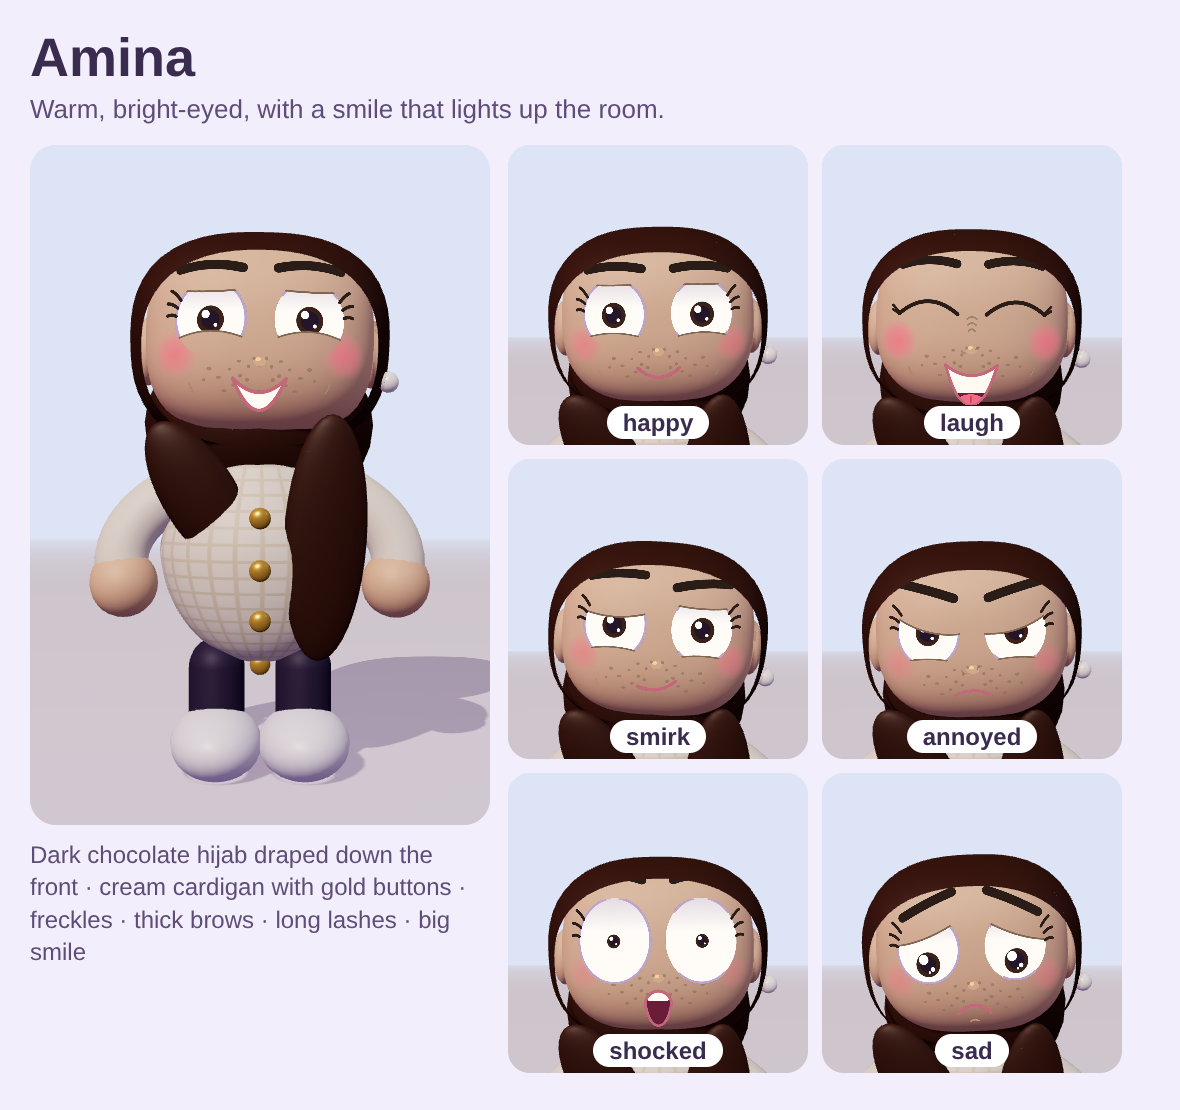
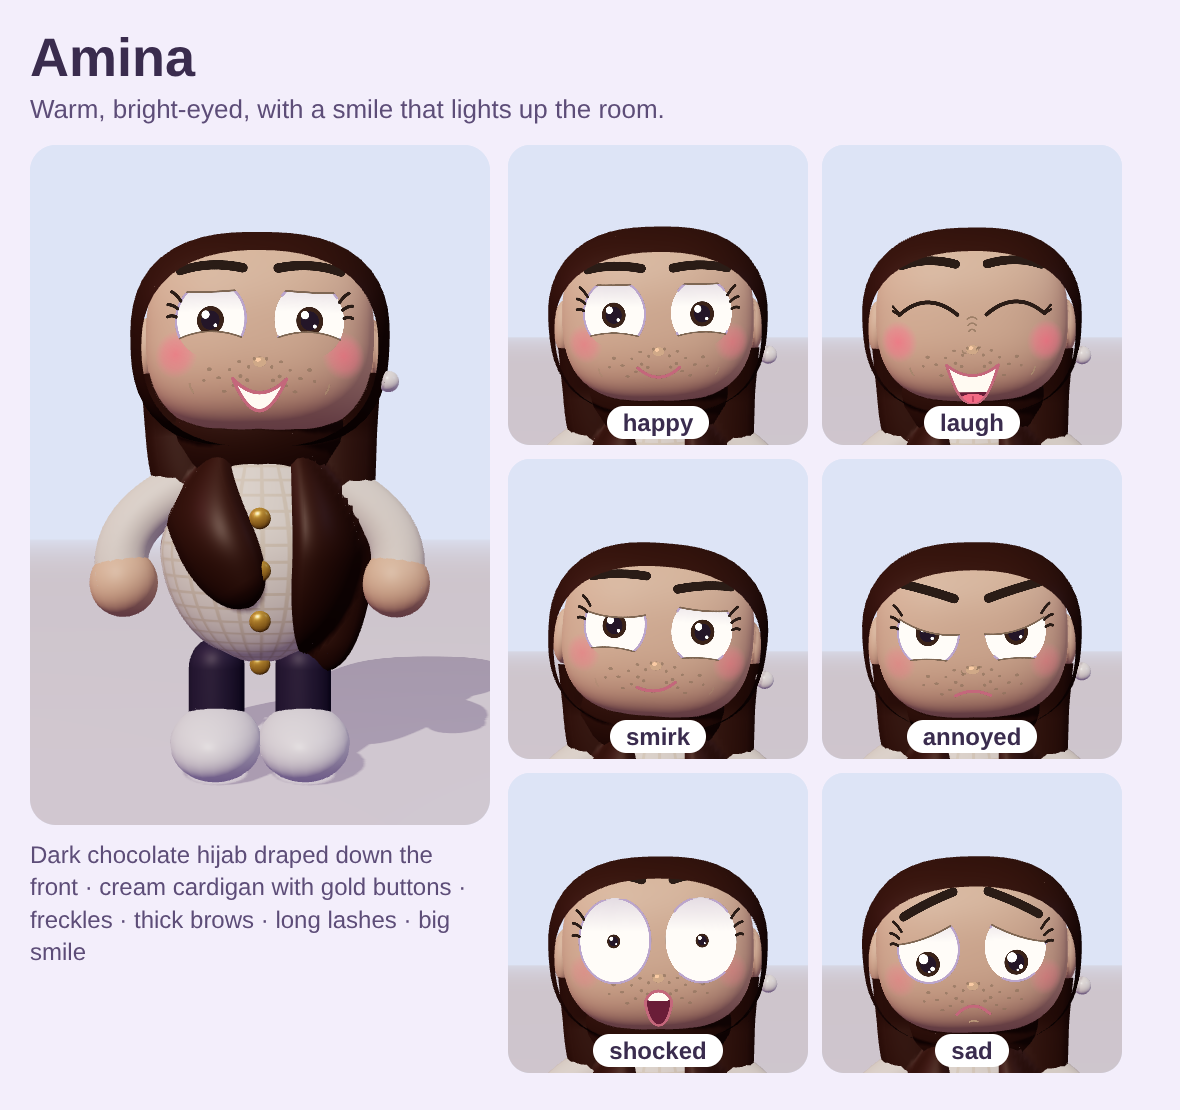
Amina's hijab: panels now flow from the head wrap down the front as one soft drape
Only the hijabDrape panels changed (smooth rounded ribbons that start inside the head wrap).
The head wrap and neck are untouched. Refreshed her preview picture.

Claude-Session: https://claude.ai/code/session_01Kz45xjeG9hM21H2JXSeFXF

diff --git a/characters/expressive/body.js b/characters/expressive/body.js
@@ -174,10 +174,29 @@ export function createExpressiveKit(THREE, RoundedBoxGeometry, kit) {
     else if (st === 'hijab') {
       const sh = new THREE.Mesh(blob(rx * 1.13, ry * 1.13, rz * 1.15, { thLen: 126 * D2R, n: HD.n }), hmat); sh.rotation.x = -(Math.PI / 2 - 0.26); sh.castShadow = true; head.add(sh);   // the opening faces the front
       const dr = ball(head, 1.2, hair, 0, -ry * 0.8, -0.45, { m: { roughness: 0.5 } }); dr.scale.set(1.25, 1.05, 0.95);
-      if (O.hijabDrape) {   // the scarf hangs down the front in two soft panels (one long, one folded across)
-        const soft = (w, h, x, y, rz, tiltX) => { const m = new THREE.Mesh(new THREE.SphereGeometry(1, 28, 20), hmat); m.scale.set(w, h, 0.17); m.position.set(x, y, eggZ(x, y, D) + 0.1); m.rotation.set(tiltX, 0, rz); m.castShadow = true; bodyG.add(m); return m; };
-        soft(0.5, 1.5, 0.78, topY - 1.5, -0.06, 0.12);      // the long panel down the front
-        soft(0.46, 1.05, -0.72, topY - 1.0, 0.55, 0.1);     // the folded panel across the chest
+      if (O.hijabDrape) {   // the scarf flows from the head wrap down the front in two soft panels (one long, one folded across). Each panel is a chain of soft overlapping pieces that starts INSIDE the head wrap, so there is no gap.
+        const dmat = hmat.clone(); dmat.side = THREE.DoubleSide;
+        const drape = (pts, w0, w1) => {   // pts: [x, y] top to bottom (the first point is up inside the head wrap). One smooth soft ribbon: rounded across, tapering, rounded at the end.
+          const R = 44, C = 16, at = u => {   // Catmull-Rom spline through the points: a smooth curve with no kinks
+            const f = u * (pts.length - 1), i = Math.min(pts.length - 2, Math.floor(f)), k = f - i, P = j => pts[Math.max(0, Math.min(pts.length - 1, j))];
+            const cr = c => 0.5 * ((2 * P(i)[c]) + (-P(i - 1)[c] + P(i + 1)[c]) * k + (2 * P(i - 1)[c] - 5 * P(i)[c] + 4 * P(i + 1)[c] - P(i + 2)[c]) * k * k + (-P(i - 1)[c] + 3 * P(i)[c] - 3 * P(i + 1)[c] + P(i + 2)[c]) * k * k * k);
+            return [cr(0), cr(1)]; };
+          const zAt = (x, y) => eggZ(x, Math.min(y, topY - 0.15), D) + 0.03 + Math.max(0, y - (topY - 0.15)) * 0.25;   // above the torso top the scarf follows the head wrap forward
+          const pos = [], idx = [];
+          for (let i = 0; i < R; i++) {
+            const u = i / (R - 1), p = at(u), p2 = at(Math.min(1, u + 0.03)), p1 = at(Math.max(0, u - 0.03)); let tx = p2[0] - p1[0], ty = p2[1] - p1[1]; const tl = Math.hypot(tx, ty) || 1; tx /= tl; ty /= tl;
+            const nx = -ty, ny = tx, end = u > 0.68 ? Math.pow(Math.max(0.02, 1 - ((u - 0.68) / 0.32) ** 2), 0.6) : 1, hw = lerp(w0, w1, u) * end;
+            for (let j = 0; j < C; j++) {
+              const c = -1 + 2 * j / (C - 1), x = p[0] + nx * hw * c, y = p[1] + ny * hw * c, th = 0.24 * Math.pow(Math.max(0, 1 - c * c), 0.6) * Math.min(1, end * 1.4) * (0.8 + 0.2 * Math.sin(u * Math.PI));
+              pos.push(x, y, zAt(x, y) + th);
+            }
+          }
+          for (let i = 0; i < R - 1; i++) for (let j = 0; j < C - 1; j++) { const a0 = i * C + j, b0 = a0 + 1, c0 = a0 + C, d0 = c0 + 1; idx.push(a0, c0, b0, b0, c0, d0); }
+          const g = new THREE.BufferGeometry(); g.setAttribute('position', new THREE.Float32BufferAttribute(pos, 3)); g.setIndex(idx); g.computeVertexNormals();
+          const m = new THREE.Mesh(g, dmat); m.castShadow = true; bodyG.add(m);
+        };
+        drape([[0.95, topY + 0.55], [0.92, topY - 0.7], [0.9, topY - 1.9], [0.78, topY - 3.2]], 0.56, 0.5);     // the long panel down the front
+        drape([[-0.95, topY + 0.55], [-0.88, topY - 0.6], [-0.55, topY - 1.5], [-0.1, topY - 2.3]], 0.54, 0.46);  // the folded panel across the chest
       }
       if (O.pin) ball(head, 0.13, hexn(O.pin), rx * 1.1, -0.55, 0.5, { noShadow: true, m: { roughness: 0.25 } });
     }
